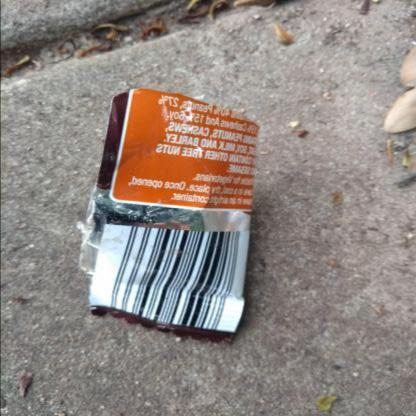
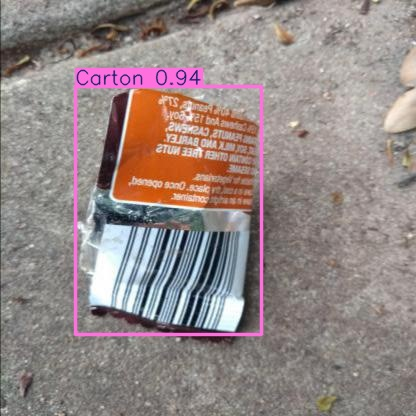
Added frontend confirmation model to upload

Changed region(s): [[0.1562, 0.1562, 0.6562, 0.8125]]

diff --git a/client/src/components/dashboard/Dashboard.tsx b/client/src/components/dashboard/Dashboard.tsx
@@ -38,6 +38,11 @@ const Dashboard: React.FC = () => {
   // Access user state and actions from the auth store
   const { user, uploadFile, uploadStatus, setUploadStatus } = useAuthStore();
 
+  const handleClearToken = () => {
+    localStorage.removeItem('token'); // Replace 'token' with your actual key
+    alert('Token cleared!');
+    // Optional: Add navigation or state updates here
+  };
   // Handle file upload
   const handleFileUpload = async (event: React.ChangeEvent<HTMLInputElement>) => {
     const file = event.target.files?.[0];
@@ -56,31 +61,92 @@ const Dashboard: React.FC = () => {
   };
 
   // Fetch user uploads from the server
+  // const fetchUploads = async () => {
+  //   try {
+  //     console.log("Fetching uploads...");
+  
+  //     // Use the fetchUploads function from the API module
+  //     const response = await authApi.fetchUploads();
+  
+  //     if (response.status === 200 && response.data.success) {
+  //       const images = response.data.images;
+  //       if (Array.isArray(images)) {
+  //         setUploads(images); // Safely set uploads from the response
+  //         console.log(`Fetched ${images.length} uploads successfully.`);
+  //       } else {
+  //         throw new Error("Unexpected response format: images is not an array");
+  //       }
+  //     } else {
+  //       throw new Error(response.data.error || "Failed to fetch uploads");
+  //     }
+  //   } catch (error) {
+  //     console.error("Error fetching uploads:", error.message);
+  //     setUploads([]); // Reset uploads in case of failure
+  //   } finally {
+  //     console.log("Fetch uploads operation complete.");
+  //   }
+  // };
+  // const fetchUploads = async () => {
+  //   try {
+  //     const response = await authApi.fetchUploads(); // Using the API method from `api.ts`
+  
+  //     if (response.status === 200 && response.data.success) {
+  //       const folderData = response.data.data;
+  
+  //       // Transform folder data for the frontend if needed
+  //       const uploads = folderData.map((folder: { folder: any; files: any[]; }) => ({
+  //         folderName: folder.folder,
+  //         files: folder.files.map((file: { name: any; path: string; }) => ({
+  //           name: file.name,
+  //           url: file.path.replace(
+  //             "C:\\Users\\DELL\\Desktop\\Programs\\Git\\Dashboard-For-Swacchta-using-AI-based-Image-analysis-Team-13-\\server",
+  //             ""
+  //           ), // Adjust the path for serving in the frontend
+  //         })),
+  //       }));
+  
+  //       setUploads(uploads);
+  //       console.log("Uploads fetched successfully:", uploads);
+  //     } else {
+  //       console.error("Error fetching uploads:", response.data.error);
+  //       setUploads([]);
+  //     }
+  //   } catch (error) {
+  //     console.error("Error fetching uploads:", error.message);
+  //     setUploads([]);
+  //   }
+  // };
   const fetchUploads = async () => {
     try {
-      console.log("Fetching uploads...");
-  
-      // Use the fetchUploads function from the API module
-      const response = await authApi.fetchUploads();
+      const response = await authApi.fetchUploads(); // Assuming this calls the Flask endpoint `/api/fetchUploads`
   
       if (response.status === 200 && response.data.success) {
-        const images = response.data.images;
-        if (Array.isArray(images)) {
-          setUploads(images); // Safely set uploads from the response
-          console.log(`Fetched ${images.length} uploads successfully.`);
-        } else {
-          throw new Error("Unexpected response format: images is not an array");
+        const folderData = response.data.data;
+  
+        // Map the response to the desired structure
+        const uploads = folderData.map((folder: { folder: any; files: any[]; }) => ({
+          folderName: folder.folder,
+          files: folder.files.map((file: { name: any; path: any; }) => ({
+            name: file.name,
+            url: file.path, // URLs served from Flask
+          }
+        )
+      ),
         }
+      ));
+
+        setUploads(uploads);
+        console.log("Uploads fetched successfully:", uploads);
       } else {
-        throw new Error(response.data.error || "Failed to fetch uploads");
+        console.error("Error fetching uploads:", response.data.error);
+        setUploads([]);
       }
     } catch (error) {
       console.error("Error fetching uploads:", error.message);
-      setUploads([]); // Reset uploads in case of failure
-    } finally {
-      console.log("Fetch uploads operation complete.");
+      setUploads([]);
     }
   };
+  
   
 
   // Use effect to fetch uploads on component mount
@@ -102,7 +168,7 @@ const Dashboard: React.FC = () => {
       {/* Welcome Section */}
       <div className="md:col-span-2 space-y-6">
         <div className="p-4 border rounded-lg shadow-lg">
-          <h2 className="text-xl font-bold">Welcome, {"John Doe"}!</h2>
+          <h2 className="text-xl font-bold">Welcome, {"Denzil Serrao"}!</h2>
           <div className="flex items-center justify-between mt-4">
             <label
               htmlFor="file-upload"
@@ -126,29 +192,33 @@ const Dashboard: React.FC = () => {
         </div>
 
         {/* Recent Uploads */}
-        <div className="p-4 border rounded-lg shadow-lg">
-          <h2 className="text-xl font-bold">Recent Uploads</h2>
-          <div className="grid grid-cols-2 sm:grid-cols-3 gap-4 mt-4">
-            {uploads.length > 0 ? (
-              uploads.map((upload) => (
-                <div key={upload.id} className="aspect-square bg-gray-200 rounded-lg">
-                  <a href={upload.fileUrl} target="_blank" rel="noopener noreferrer">
-                    <img
-                      src={upload.thumbnailUrl}
-                      alt={upload.name}
-                      className="w-full h-full object-cover rounded-lg"
-                    />
-                  </a>
-                </div>
-              ))
-            ) : (
-              <p className="text-gray-600">No uploads yet.</p>
-            )}
-          </div>
+<div className="p-4 border rounded-lg shadow-lg">
+  <h2 className="text-xl font-bold">Recent Uploads</h2>
+  <div className="grid grid-cols-2 sm:grid-cols-3 gap-4 mt-4">
+    {uploads.length > 0 ? (
+      uploads.map((upload) => (
+        <div key={upload.id} className="aspect-square bg-gray-200 rounded-lg relative">
+          <a href={upload.fileUrl} target="_blank" rel="noopener noreferrer">
+            <img
+              src={upload.thumbnailUrl}
+              alt={upload.name || "Uploaded File"}
+              className="w-full h-full object-cover rounded-lg"
+              onError={(e) => (e.target.src = "C:/Users/DELL/Desktop/Programs/Git/Dashboard-For-Swacchta-using-AI-based-Image-analysis-Team-13-/server/OUTPUT_FOLDER/predict/000000_jpg.rf.0e27c88666f15d047eaa42f9d635f5a8.jpg")}
+            />
+          </a>
+          <p className="absolute bottom-2 left-2 bg-black text-white text-xs px-2 py-1 rounded-lg opacity-75">
+            {upload.name || "Unnamed"}
+          </p>
+        </div>
+      ))
+    ) : (
+      <p className="text-gray-600">No uploads yet.</p>
+    )}
+  </div>
+
+
         </div>
       </div>
-
-      {/* Side Panels */}
       <div className="space-y-6">
         {/* Weekly Score */}
         <div className="p-4 border rounded-lg shadow-lg">
@@ -225,6 +295,15 @@ const Dashboard: React.FC = () => {
     </div>
   </div>
 )}
+<div className="p-4">
+      <h2 className="text-xl font-bold">Manage Token</h2>
+      <button
+        onClick={handleClearToken}
+        className="bg-red-500 text-white px-4 py-2 rounded-lg shadow-lg hover:bg-red-600 mt-4"
+      >
+        Logout
+      </button>
+    </div>
 
     </div>
   );

diff --git a/server/app.py b/server/app.py
@@ -12,6 +12,7 @@ import numpy as np
 import pandas as pd
 from werkzeug.utils import secure_filename
 from PIL import ImageDraw  # Added ImageDraw import
+import re
 
 
 # Load environment variables
@@ -19,13 +20,14 @@ load_dotenv()
 
 app = Flask(__name__)
 CORS(app)
-
+CORS(app, resources={r"/api/*": {"origins": "http://localhost:5173"}})
 # Configuration
 app.config['SECRET_KEY'] = os.getenv('SECRET_KEY', 'your-secret-key-here')
 app.config['MONGO_URI'] = os.getenv('MONGO_URI', 'mongodb://localhost:27017/mydatabase')
 app.config['ALLOWED_EXTENSIONS'] = {'png', 'jpg', 'jpeg'}
 app.config['UPLOAD_FOLDER'] = './upload/input'
 app.config['OUTPUT_FOLDER'] = './upload/output'
+OUTPUT_FOLDER = os.path.join(os.path.dirname(os.path.abspath(__file__)), "OUTPUT_FOLDER")
 
 
 # model_path = r'/content/runs/train/weights/best.pt'
@@ -348,9 +350,12 @@ def upload_file():
                 project='OUTPUT_FOLDER',  # Base directory for saving results
                 save=True,              # Save annotated images
                 save_conf=True ,
-                save_txt = True         # Save confidence scores for detections
+                save_txt = True,
+                show = True,
+                show_labels = True         # Save confidence scores for detections
             )  
         detections = results[0].boxes.data.tolist()  # Extract detection data
+        results[0].show()
         output_filepath = os.path.join(app.config['OUTPUT_FOLDER'], filename)
         image.save(output_filepath)
         return jsonify({
@@ -368,29 +373,108 @@ def upload_file():
             'error': str(e)
         }), 500
 
-@app.route('/api/uploads/<filename>', methods=['GET'])
-def serve_uploaded_file(filename):
+# @app.route('/api/uploads/<filename>', methods=['GET'])
+# def serve_uploaded_file(filename):
     try:
         return send_from_directory(app.config['UPLOAD_FOLDER'], filename)
     except Exception as e:
         return jsonify({"success": False, "error": str(e)}), 404
 
+
 @app.route('/api/uploadFetch', methods=['GET'])
-def fetch_uploaded_images():
-    try:
-        # Get the list of image files in the upload directory
-        image_files = [
-            {
-                "name": image,
-                "url": f"/api/uploads/{image}"
-            }
-            for image in os.listdir(app.config['UPLOAD_FOLDER'])
-            if image.lower().endswith(('.png', '.jpg', '.jpeg', '.gif'))
-        ]
+# def fetch_uploaded_images():
+    # try:
+    #     # Get the list of image files in the upload directory
+    #     image_files = [
+    #         {
+    #             "name": image,
+    #             "url": f"/api/uploads/{image}"
+    #         }
+    #         for image in os.listdir(app.config['UPLOAD_FOLDER'])
+    #         if image.lower().endswith(('.png', '.jpg', '.jpeg', '.gif'))
+    #     ]
         
-        return jsonify({"success": True, "images": image_files}), 200
+    #     return jsonify({"success": True, "images": image_files}), 200
+    # except Exception as e:
+    #     return jsonify({"success": False, "error": str(e)}), 500
+def fetch_uploaded_images():
+    if request.method == 'OPTIONS':
+        return '', 200  # Respond OK to preflight
+    try:
+        # Only include folders that match "predict<number>" pattern
+        predict_folders = sorted(
+            [folder for folder in os.listdir(OUTPUT_FOLDER) if re.match(r'^predict\d+$', folder)],
+            key=lambda x: int(x.replace("predict", ""))
+        )
+        
+        folder_data = []
+        for folder in predict_folders:
+            folder_path = os.path.join(OUTPUT_FOLDER, folder)
+            if os.path.isdir(folder_path):
+                files = [
+                    {"name": file, "path": f"server/OUTPUT_FOLDER/{folder}/{file}"}
+                    for file in os.listdir(folder_path)
+                    if os.path.isfile(os.path.join(folder_path, file))
+                ]
+                folder_data.append({"folder": folder, "files": files})
+        return jsonify({"success": True, "data": folder_data})
     except Exception as e:
-        return jsonify({"success": False, "error": str(e)}), 500
+        print(f"Error fetching uploads: {e}")
+        return jsonify({"success": False, "error": "Failed to fetch uploads"}), 500
+        if request.method == 'OPTIONS':
+            return '', 200  # Respond OK to preflight
+        try:
+            predict_folders = sorted(
+                [folder for folder in os.listdir(OUTPUT_FOLDER) if folder.startswith("predict")],
+                key=lambda x: int(x.replace("predict", ""))
+            )
+            folder_data = []
+            for folder in predict_folders:
+                folder_path = os.path.join(OUTPUT_FOLDER, folder)
+                if os.path.isdir(folder_path):
+                    files = [
+                        {"name": file, "path": f"/OUTPUT_FOLDER/{folder}/{file}"}
+                        for file in os.listdir(folder_path)
+                        if os.path.isfile(os.path.join(folder_path, file))
+                    ]
+                    folder_data.append({"folder": folder, "files": files})
+            return jsonify({"success": True, "data": folder_data})
+        except Exception as e:
+            print(f"Error fetching uploads: {e}")
+            return jsonify({"success": False, "error": "Failed to fetch uploads"}), 500
+
+# @app.route('/api/fetchUploads', methods=['GET','OPTIONS'])
+# def fetch_uploads():
+#     if request.method == 'OPTIONS':
+#         return '', 200  # Respond OK to preflight
+#     try:
+#         predict_folders = sorted(
+#             [folder for folder in os.listdir(OUTPUT_FOLDER) if folder.startswith("predict")],
+#             key=lambda x: int(x.replace("predict", ""))
+#         )
+#         folder_data = []
+#         for folder in predict_folders:
+#             folder_path = os.path.join(OUTPUT_FOLDER, folder)
+#             if os.path.isdir(folder_path):
+#                 files = [
+#                     {"name": file, "path": f"/uploads/{folder}/{file}"}
+#                     for file in os.listdir(folder_path)
+#                     if os.path.isfile(os.path.join(folder_path, file))
+#                 ]
+#                 folder_data.append({"folder": folder, "files": files})
+#         return jsonify({"success": True, "data": folder_data})
+#     except Exception as e:
+#         print(f"Error fetching uploads: {e}")
+#         return jsonify({"success": False, "error": "Failed to fetch uploads"}), 500
+
+
+@app.route('/uploads/<folder>/<filename>')
+def serve_file(folder, filename):
+    folder_path = os.path.join(OUTPUT_FOLDER, folder)
+    if os.path.exists(os.path.join(folder_path, filename)):
+        return send_from_directory(folder_path, filename)
+    else:
+        return jsonify({"success": False, "error": "File not found"}), 404
 
     
 if __name__ == '__main__':
